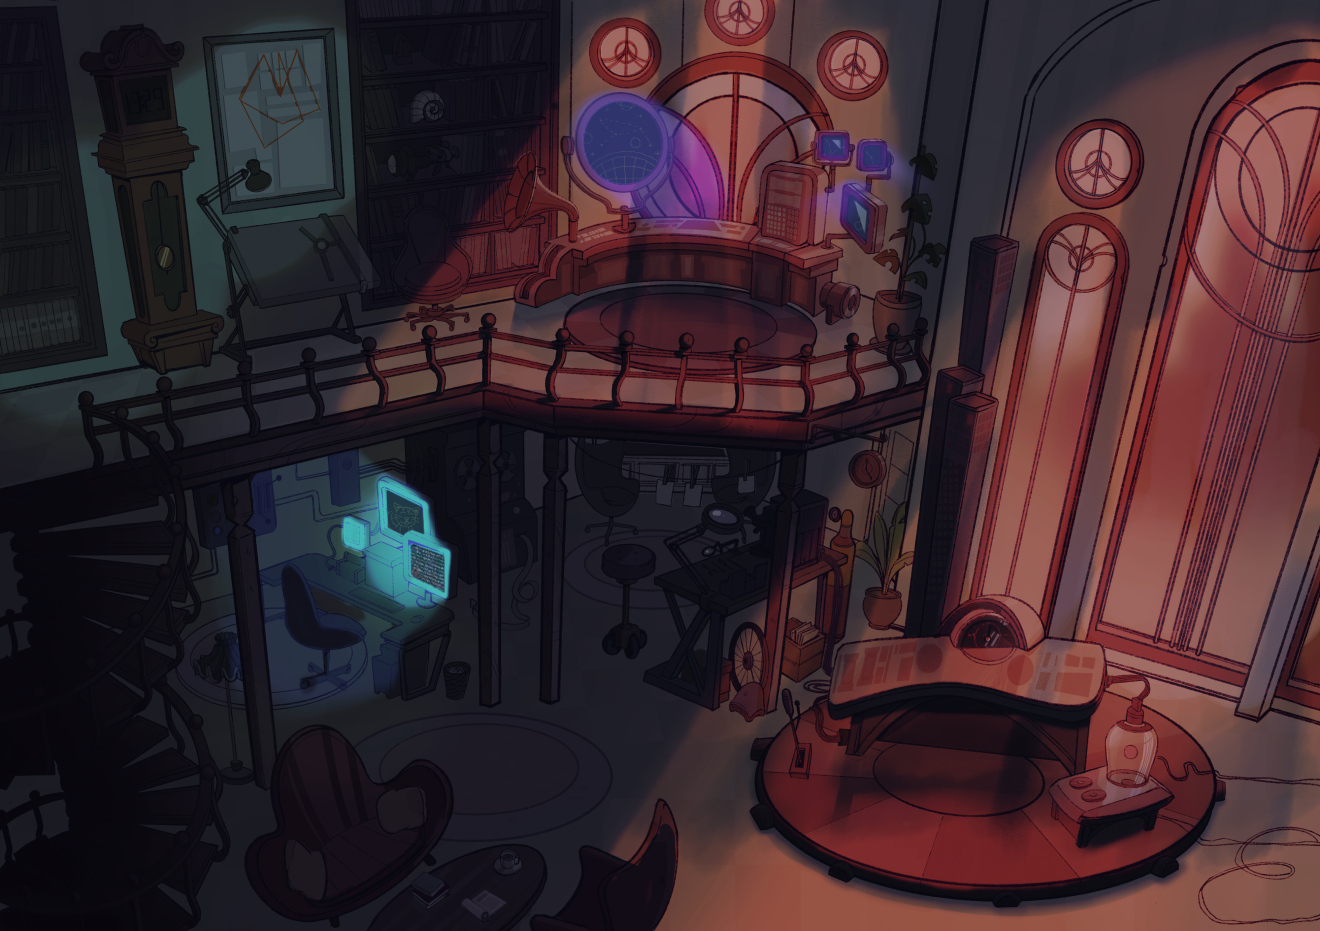
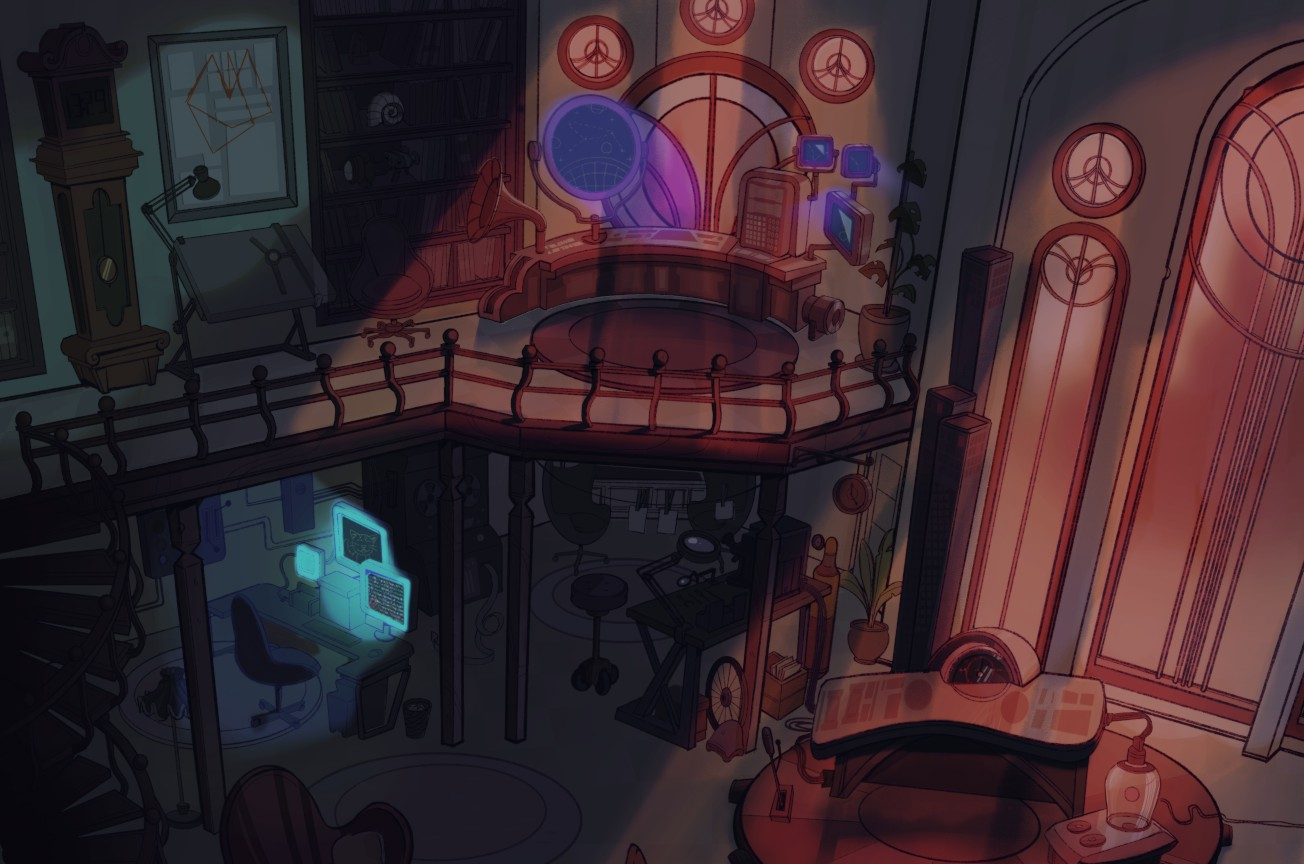
clubhouse: update background assets
Crop main background and reposition characters

diff --git a/eosclubhouse/clubhouse.py b/eosclubhouse/clubhouse.py
@@ -1965,8 +1965,8 @@ class ClubhouseWindow(Gtk.ApplicationWindow):
             self.clubhouse.stop_quest()
 
     def _update_window_size(self):
-        BG_WIDTH = 1320
-        BG_HEIGHT = 931
+        BG_WIDTH = 1304
+        BG_HEIGHT = 864
 
         screen = self.get_screen()
         if screen is None:
@@ -1985,8 +1985,8 @@ class ClubhouseWindow(Gtk.ApplicationWindow):
         elif screen_height >= 1080:
             context.add_class('big')
 
-        # Clamp resolution to 90% of 720p-1080p
-        height = max(720, min(screen_height, 1080)) * 0.90
+        # Clamp resolution to 80% of 720p-1080p
+        height = max(720, min(screen_height, 1080)) * 0.80
 
         # Set main box size
         self.set_size_request(height * BG_WIDTH / BG_HEIGHT, height)
